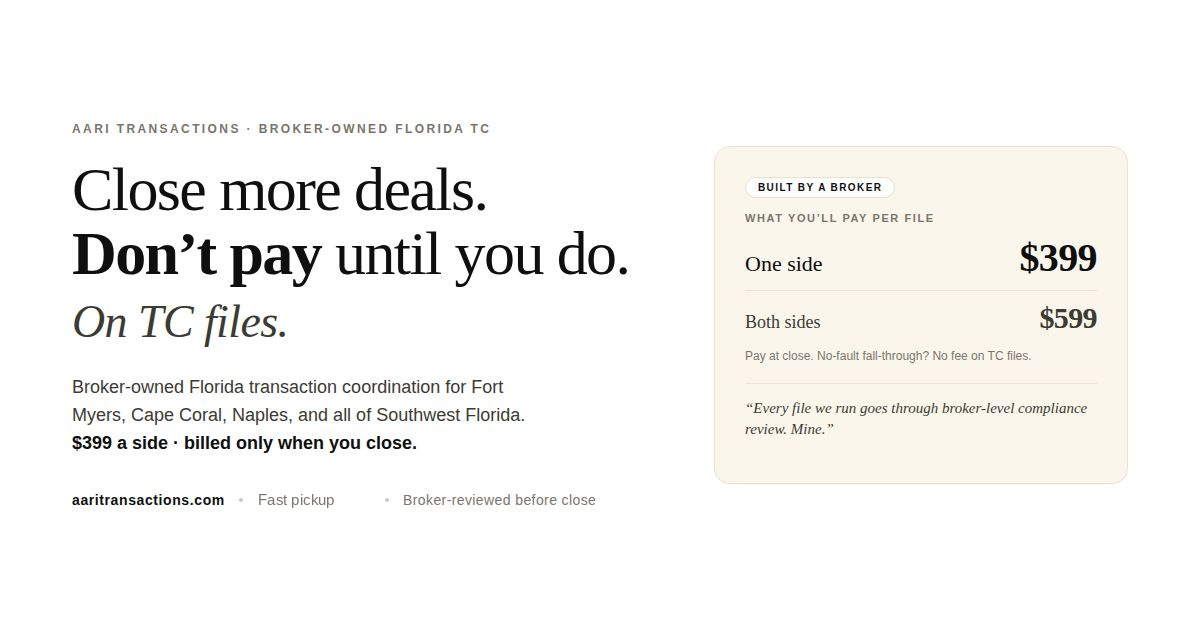
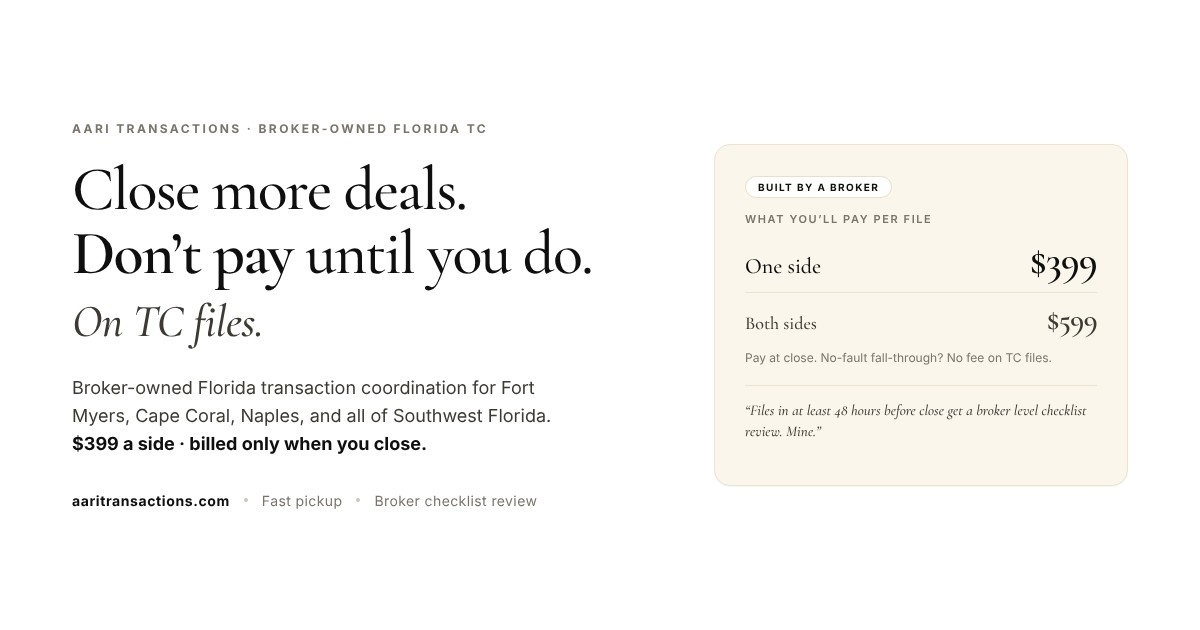
Re scan 6 ripples: feedback and review pages, two message templates (source only, deploy with CTO) and the share image use team wording and the 48 hour checklist line
Claude-Session: https://claude.ai/code/session_01CyE2MoQCgaa14oBFbLQCh4

diff --git a/.checks/referral-legal.js b/.checks/referral-legal.js
@@ -84,7 +84,7 @@ console.log('text consent check passed');
 // Decisions 181 to 185: no promise words that came back out in the liability sweep.
 {
   const pBad = [];
-  const re = /confirmation of receipt|staffed by licensed|We(&rsquo;|')re licensed agents|tax hit|fat-finger|logged for FREC|Performed by licensed broker Marlenyi|Marlenyi matches you personally|personally (oversees|selects)|My TC team are licensed|broker personally|watching every file|on every referral file|Audit-ready folder delivered|make the file audit-ready|Username · Password|name="(compliance|signing)_login"|Intro rate through Aug|public testimonial with my name|includes loss of license, willful misconduct|twelve months preceding the claim|70% of (Files|Florida)|eliminates the entire category|closing date is safe|Compliance reviewed before close|Same broker audit applied|never lets a deadline slip|audit finds nothing missing|catch the items before they catch you|Catch it before they do|Every safeguard your file needs|never CCs the buyer|Monday.morning surprise|Nights, weekends, holidays|nights, weekends, holidays|Direct line to the broker|I keep one canonical|Permission on file for every review|I have provided all logins|Compatible with every TC platform|Every deadline tracked|I use on every Aari|Active FL Realtor|239\.440\.1006|407\.910\.5836|pick any Offer Prep|and memberships are non-refundable once work begins|is the whole pricing|brokerages quietly tack on|flags the leverage decisions|protects the timeline|flags this question on every new file|HUD-compliant form language|oceanfront \+ waterfront|protects the file|Standalone work starts at \$49|Revision, amendment and late fees|delivered audit-ready|reads your file before anyone else|every gap found|MLS Setup Only \(\$149|broker-led compliance review|Broker-reviewed before close|A Florida broker on your file|Same broker review on both\.|true (Florida )?dual representation|straight to Marlenyi|Marlenyi will see this|Marlenyi reads every|your broker assigns manually|requires Agent\\?'s credentials|Agent\\?'s system credentials|you owe nothing|no fee owed if it doesn|Waiving appraisal strengthens|\$20 cheaper|double-billing the client|no fee to move; only/i;
+  const re = /confirmation of receipt|staffed by licensed|We(&rsquo;|')re licensed agents|tax hit|fat-finger|logged for FREC|Performed by licensed broker Marlenyi|Marlenyi matches you personally|personally (oversees|selects)|My TC team are licensed|broker personally|watching every file|on every referral file|Audit-ready folder delivered|make the file audit-ready|Username · Password|name="(compliance|signing)_login"|Intro rate through Aug|public testimonial with my name|includes loss of license, willful misconduct|twelve months preceding the claim|70% of (Files|Florida)|eliminates the entire category|closing date is safe|Compliance reviewed before close|Same broker audit applied|never lets a deadline slip|audit finds nothing missing|catch the items before they catch you|Catch it before they do|Every safeguard your file needs|never CCs the buyer|Monday.morning surprise|Nights, weekends, holidays|nights, weekends, holidays|Direct line to the broker|I keep one canonical|Permission on file for every review|I have provided all logins|Compatible with every TC platform|Every deadline tracked|I use on every Aari|Active FL Realtor|239\.440\.1006|407\.910\.5836|pick any Offer Prep|and memberships are non-refundable once work begins|is the whole pricing|brokerages quietly tack on|flags the leverage decisions|protects the timeline|flags this question on every new file|HUD-compliant form language|oceanfront \+ waterfront|protects the file|Standalone work starts at \$49|Revision, amendment and late fees|delivered audit-ready|reads your file before anyone else|every gap found|MLS Setup Only \(\$149|broker-led compliance review|Broker-reviewed before close|A Florida broker on your file|Same broker review on both\.|true (Florida )?dual representation|straight to Marlenyi|Marlenyi will see this|Marlenyi reads every|your broker assigns manually|requires Agent\\?'s credentials|Agent\\?'s system credentials|you owe nothing|no fee owed if it doesn|Waiving appraisal strengthens|\$20 cheaper|double-billing the client|no fee to move; only|Every file we run goes through/i;
   // Decision 201: Listing Coordinator is $199 on every page.
   for (const f of ['services.html','index.html','submit.html']) { const t = fs.readFileSync(path.join(root, f), 'utf8'); if (/Listing Coordinator[\s\S]{0,400}\$249/.test(t)) pBad.push(f + ': Listing Coordinator not $199 (decision 201)'); }
   for (const f of walk(root).filter(f => /\.(html|js|ts|json)$/.test(f) && !/(pipeline|files\.html|archive|node_modules|\.checks)/.test(f))) {

diff --git a/supabase/functions/send-broker-escalation-sms-to-agent/index.ts b/supabase/functions/send-broker-escalation-sms-to-agent/index.ts
@@ -78,8 +78,8 @@ Deno.serve(async (req) => {
 
   // Agent reassurance (best-effort). Also property-first, no id prefix.
   if(agent?.email){
-    const aText = `Hi ${agent?.first_name || "there"},\n\nYour file at ${propertyShort} is going straight to Marlenyi. No further action needed from you.\n\nAari Transactions`;
-    const aHtml = `<div style="font-family:-apple-system,BlinkMacSystemFont,'Segoe UI',sans-serif;color:#111;line-height:1.6;font-size:15px;"><p>Hi ${esc(agent?.first_name||"there")},</p><p>Your file at <strong>${esc(propertyShort)}</strong> is going straight to Marlenyi. No further action needed from you.</p><p style="color:#555;">Aari Transactions</p></div>`;
+    const aText = `Hi ${agent?.first_name || "there"},\n\nYour file at ${propertyShort} is going to the broker for review. No further action needed from you.\n\nAari Transactions`;
+    const aHtml = `<div style="font-family:-apple-system,BlinkMacSystemFont,'Segoe UI',sans-serif;color:#111;line-height:1.6;font-size:15px;"><p>Hi ${esc(agent?.first_name||"there")},</p><p>Your file at <strong>${esc(propertyShort)}</strong> is going to the broker for review. No further action needed from you.</p><p style="color:#555;">Aari Transactions</p></div>`;
     try { await sendEmail(agent.email, `Your file is with the broker · ${propertyShort}`, aText, aHtml); } catch(_){}
   }
 

diff --git a/supabase/functions/send-agent-nps-request/index.ts b/supabase/functions/send-agent-nps-request/index.ts
@@ -92,7 +92,7 @@ Deno.serve(async (req) => {
         <p style="font-size:14px;margin:0 0 16px;color:#0f0f0f;line-height:1.55">${firstName ? `Hi ${esc(firstName)},` : "Hi,"}</p>
         <p style="font-size:14px;margin:0 0 16px;color:#0f0f0f;line-height:1.55">Quick favor — 30 seconds. How was working with ${esc(tcName)} on this file?</p>
         <a href="${link}" style="display:inline-block;background:#0f0f0f;color:#fff;padding:12px 24px;border-radius:6px;text-decoration:none;font-size:13px;font-weight:500">Leave 30-second feedback →</a>
-        <p style="font-size:12px;color:#5f5e5a;margin:20px 0 0;line-height:1.5">Your answer goes straight to Marlenyi. We use it to keep the bar high.</p>
+        <p style="font-size:12px;color:#5f5e5a;margin:20px 0 0;line-height:1.5">Your answer goes to the Aari team. We use it to keep the bar high.</p>
         <hr style="border:0;border-top:0.5px solid #e6e2d8;margin:28px 0 14px">
         <p style="font-size:10.5px;color:#888;line-height:1.5;margin:0">Closed ${new Date().toLocaleDateString("en-US", { month: "long", day: "numeric", year: "numeric" })} · Aari Transactions</p>
       </div>

diff --git a/images/og-cover-render.html b/images/og-cover-render.html
@@ -116,7 +116,7 @@
       <span class="dot"></span>
       <span>Fast pickup</span>
       <span class="dot"></span>
-      <span>Broker-reviewed before close</span>
+      <span>Broker checklist review</span>
     </div>
   </div>
 
@@ -133,7 +133,7 @@
         <span class="amt">$599</span>
       </div>
       <p class="note">Pay at close. No-fault fall-through? No fee on TC files.</p>
-      <p class="quote">&ldquo;Every file we run goes through broker-level compliance review. Mine.&rdquo;</p>
+      <p class="quote">&ldquo;Files in at least 48 hours before close get a broker level checklist review. Mine.&rdquo;</p>
     </div>
   </div>
 </div>

diff --git a/review.html b/review.html
@@ -192,7 +192,7 @@
         role: 'Founder &amp; Broker-Owner &middot; Aari Transactions',
         headline: '<em>Marlenyi</em> ran your file.',
         lede: 'Tell us how it went. Help the next agent pick her. <strong>Under two minutes.</strong>',
-        successBody: 'We review every submission. Marlenyi will see this within 5 business days. Approved reviews go live on aaritransactions.com with your name and brokerage.'
+        successBody: 'The Aari team reviews each submission. Approved reviews go live on aaritransactions.com with your name and brokerage.'
       },
       mile: {
         name: 'Mile',

diff --git a/client-review.html b/client-review.html
@@ -395,7 +395,7 @@
       <a href="#" class="path-card secondary" id="path-private" data-path="private">
         <span class="label">Private feedback</span>
         <h2>Tell us directly.</h2>
-        <p>If something didn't sit right, we want to know. Goes straight to Marlenyi. Not published.</p>
+        <p>If something didn't sit right, we want to know. Goes to the Aari team. Not published.</p>
         <span class="cta">Send privately</span>
       </a>
 
